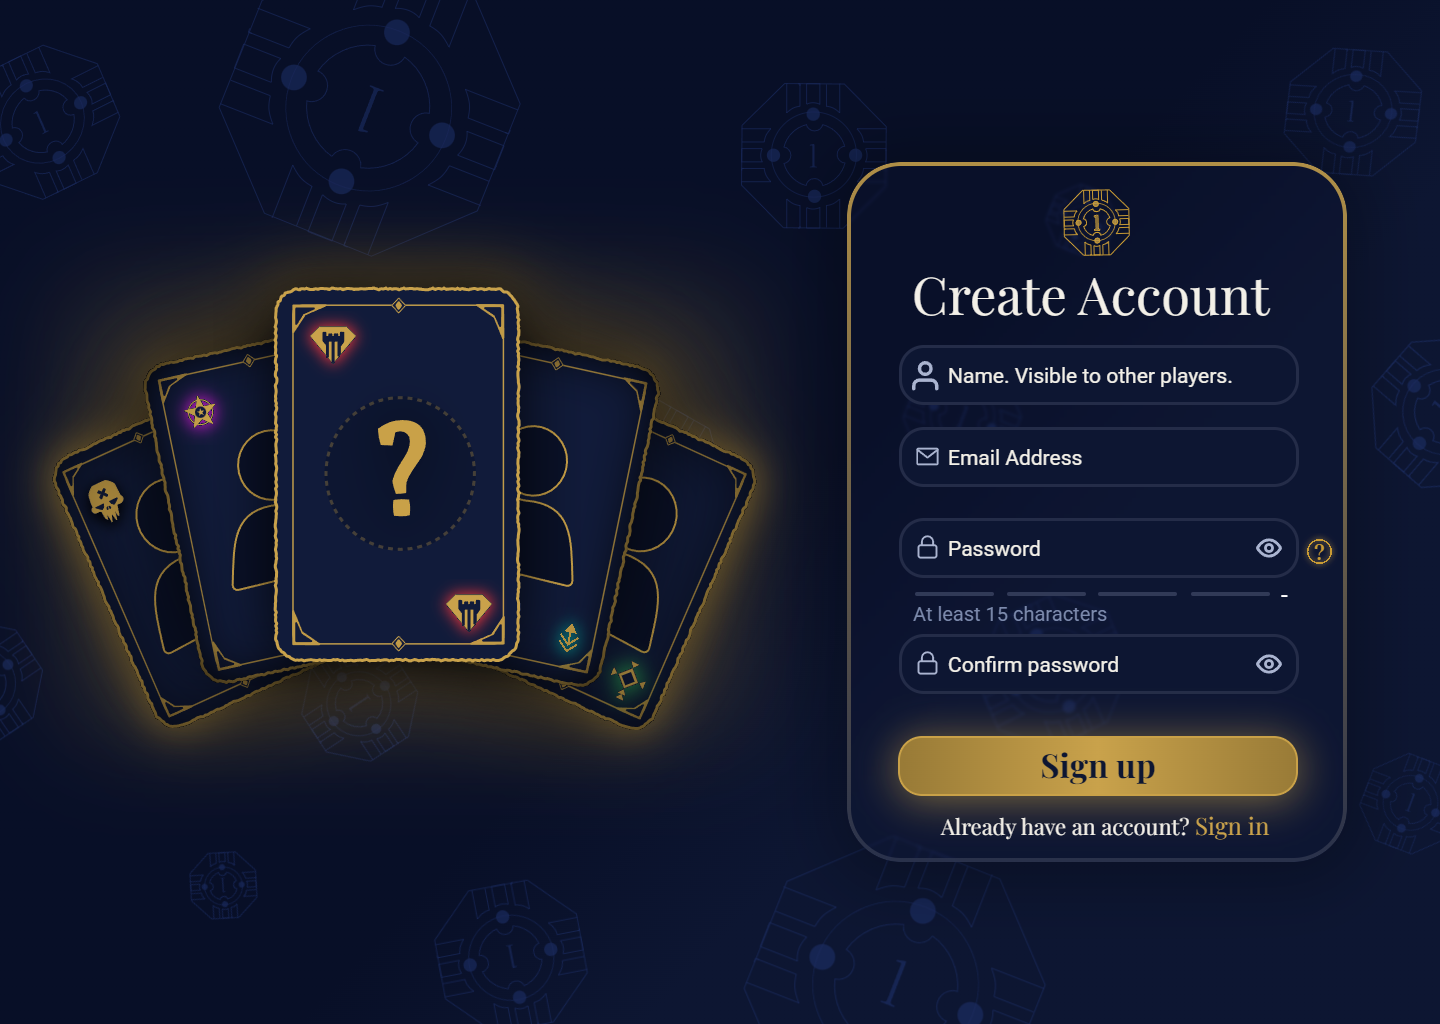
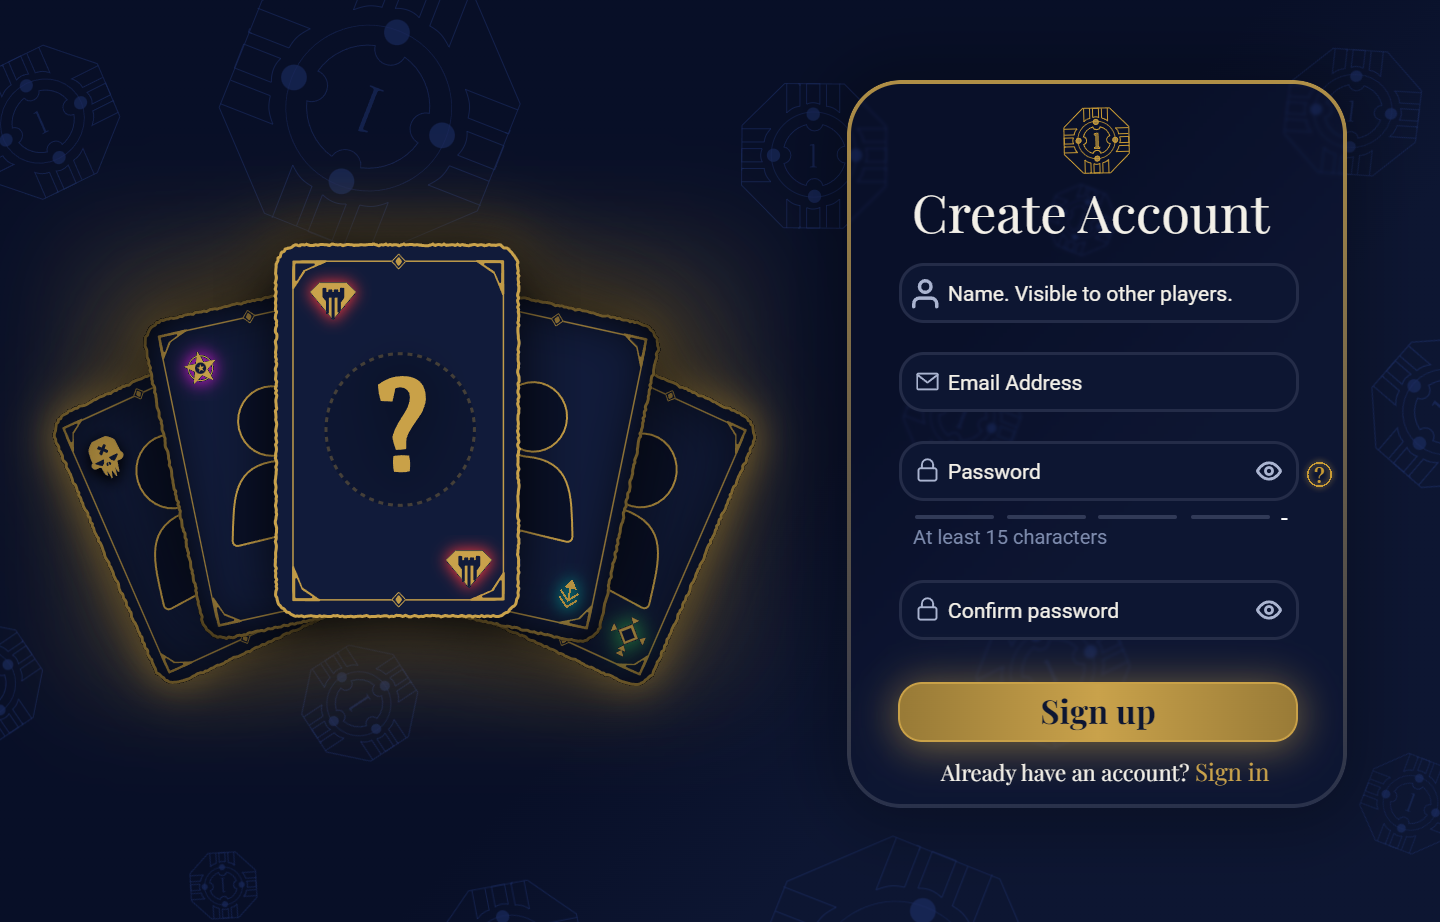
Give the register screen the login's size and spacing
Both screens now use the login's 1440 x 922 scene and one scale, so the
coin background and the cards keep the same size. The register fields
use the login's spacing: 29 px between boxes and about 30 px after a
warning or the hint. The password warning takes the hint's row.

diff --git a/frontend/src/styles/register.css b/frontend/src/styles/register.css
@@ -1,36 +1,36 @@
-/* Register positions in the 1440 x 1024 Figma frame "Desktop - Register default" (233:1402). Shared looks are in auth.css. */
-.register-scene { height: 1024px; }
-.register-scene .card-artwork { left: -35px; top: 184px; }
+/* Register positions from the 1440 x 1024 Figma frame "Desktop - Register default" (233:1402), placed in the login's
+   1440 x 922 scene so both screens share one scale. The cards sit at the login's card height, and the panel starts at
+   y 80 so it still fits with all warnings. The field spacing follows the login: 29 px between boxes, and about 30 px
+   from a warning or the hint to the next box. Other sizes follow Figma. Shared looks are in auth.css. */
+.register-scene .card-artwork { left: -35px; top: 140px; }
 .register-panel {
-  /* Each warning adds 32 px and moves everything below it, as on the login screen. */
+  /* Each warning adds 32 px and moves everything below it, as on the login screen. The password warning uses
+     the hint's row instead, so it adds no space. */
   --name-warning-space: 0px;
   --email-warning-space: 0px;
-  --password-warning-space: 0px;
   --confirm-warning-space: 0px;
   --password-shift: calc(var(--name-warning-space) + var(--email-warning-space));
-  --confirm-shift: calc(var(--password-shift) + var(--password-warning-space));
-  --warning-space: calc(var(--confirm-shift) + var(--confirm-warning-space));
+  --warning-space: calc(var(--password-shift) + var(--confirm-warning-space));
   --level-weak: #ff383c;
   --level-fair: #e0b652;
   --level-good: #34c759;
   --level-strong: #b388ff;
   left: 847px;
-  top: 162px;
-  height: calc(700px + var(--warning-space));
+  top: 80px;
+  height: calc(728px + var(--warning-space));
 }
 .register-panel.has-name-warning { --name-warning-space: 32px; }
 .register-panel.has-email-warning { --email-warning-space: 32px; }
-.register-panel.has-password-warning { --password-warning-space: 32px; }
 .register-panel.has-confirm-warning { --confirm-warning-space: 32px; }
 .register-panel .coup-emblem { left: 200px; top: 11px; width: 92px; height: 92px; }
 .register-panel h1 { left: 61px; top: 93px; }
 .register-panel .credential-field { left: 48px; }
 .register-panel .name-field { top: 179px; }
-.register-panel .email-field { top: calc(261px + var(--name-warning-space)); }
-.register-panel .password-field { top: calc(352px + var(--password-shift)); }
-.register-panel .confirm-field { top: calc(468px + var(--confirm-shift)); }
+.register-panel .email-field { top: calc(268px + var(--name-warning-space)); }
+.register-panel .password-field { top: calc(357px + var(--password-shift)); }
+.register-panel .confirm-field { top: calc(496px + var(--password-shift)); }
 .register-panel .name-field .field-icon { left: 10.25px; top: 13.25px; width: 26.5px; height: 29.5px; }
-/* The password warning sits 8 px below the strength bars, in place of the hint, and adds 32 px like the others. */
+/* The password warning sits 8 px below the strength bars, in place of the hint. */
 .register-panel .password-field .field-warning { top: 83px; left: 11px; }
 
 /* Strength levels color the password border, the bars, and the label. */
@@ -40,7 +40,7 @@
 .register-panel .level-strong .password-field { border-color: var(--level-strong); }
 /* A warning wins over the strength color, so every warned field looks the same, as on the login. */
 .register-panel .password-strength .password-field.has-warning { border-color: var(--color-coup-gold); }
-.password-meter { position: absolute; left: 64px; top: calc(426px + var(--password-shift)); width: 355px; height: 4px; }
+.password-meter { position: absolute; left: 64px; top: calc(431px + var(--password-shift)); width: 355px; height: 4px; }
 .meter-bar { position: absolute; top: 0; width: 79px; height: 4px; border-radius: 2px; background: #313a57; }
 .meter-bar:nth-child(2) { left: 92px; }
 .meter-bar:nth-child(3) { left: 183px; }
@@ -52,7 +52,7 @@
 .password-level {
   position: absolute;
   left: 430px;
-  top: calc(414px + var(--password-shift));
+  top: calc(419px + var(--password-shift));
   margin: 0;
   color: #fff;
   font: 24px/normal var(--font-body);
@@ -66,7 +66,7 @@
 .password-hint {
   position: absolute;
   left: 62px;
-  top: calc(436px + var(--password-shift));
+  top: calc(441px + var(--password-shift));
   margin: 0;
   color: #7d8bad;
   font: 20px/normal var(--font-body);
@@ -76,7 +76,7 @@
 .password-help {
   position: absolute;
   left: 456px;
-  top: calc(373px + var(--password-shift));
+  top: calc(378px + var(--password-shift));
   width: 25px;
   height: 25px;
   padding: 0;
@@ -93,7 +93,7 @@
   position: absolute;
   z-index: 2;
   left: 151px;
-  top: calc(363px + var(--password-shift));
+  top: calc(368px + var(--password-shift));
   width: 330px;
   padding: 12px 16px;
   border: 1.5px solid var(--color-coup-gold);
@@ -112,11 +112,11 @@
 .password-tips li::marker { color: var(--color-coup-gold); }
 .password-tips.open { opacity: 1; visibility: visible; }
 
-.register-panel .auth-button { left: 47px; top: calc(569px + var(--warning-space)); }
+.register-panel .auth-button { left: 47px; top: calc(597px + var(--warning-space)); }
 .signin-prompt {
   position: absolute;
   left: 90px;
-  top: calc(643px + var(--warning-space));
+  top: calc(671px + var(--warning-space));
   margin: 0;
   color: var(--color-coup-cream);
   font-size: 22px;

diff --git a/frontend/src/components/DesktopScene.tsx b/frontend/src/components/DesktopScene.tsx
@@ -1,29 +1,30 @@
 import { useEffect, useState } from "react";
 import type { ReactNode } from "react";
 
-// A Figma frame (1440 px wide) that scales as one piece to fit the window, with a 1024 px minimum width.
+// The login's 1440 x 922 Figma frame, which scales as one piece to fit the window, with a 1024 px minimum width.
+// Every screen uses this frame, so the background and cards keep their size when the player switches screens.
 const FRAME_WIDTH = 1440;
+const FRAME_HEIGHT = 922;
 const MIN_WIDTH = 1024;
 
-function sceneScale(frameHeight: number) {
-  return Math.min(Math.max(window.innerWidth, MIN_WIDTH) / FRAME_WIDTH, window.innerHeight / frameHeight);
+function sceneScale() {
+  return Math.min(Math.max(window.innerWidth, MIN_WIDTH) / FRAME_WIDTH, window.innerHeight / FRAME_HEIGHT);
 }
 
 type DesktopSceneProps = {
-  frameHeight: number;
   label: string;
   sceneClass: string;
   children: ReactNode;
 };
 
-export function DesktopScene({ frameHeight, label, sceneClass, children }: DesktopSceneProps) {
-  const [scale, setScale] = useState(() => sceneScale(frameHeight));
+export function DesktopScene({ label, sceneClass, children }: DesktopSceneProps) {
+  const [scale, setScale] = useState(sceneScale);
 
   useEffect(() => {
-    const resize = () => setScale(sceneScale(frameHeight));
+    const resize = () => setScale(sceneScale());
     window.addEventListener("resize", resize);
     return () => window.removeEventListener("resize", resize);
-  }, [frameHeight]);
+  }, []);
 
   return (
     <main className="auth-screen min-h-dvh" aria-label={label}>

diff --git a/frontend/src/pages/RegisterPage.tsx b/frontend/src/pages/RegisterPage.tsx
@@ -68,12 +68,13 @@ export function RegisterPage() {
     ? checkPassword(values.password, { username: values.name, email: values.email }, engine).level
     : undefined;
   const showHint = !warnings.password && [...values.password.normalize("NFC")].length < passwordPolicy.minLength;
-  const panelClass = ["auth-panel register-panel", warnings.name && "has-name-warning", warnings.email && "has-email-warning", warnings.password && "has-password-warning", warnings.confirm && "has-confirm-warning"]
+  // The password warning uses the hint's row, so only these three warnings add space to the panel.
+  const panelClass = ["auth-panel register-panel", warnings.name && "has-name-warning", warnings.email && "has-email-warning", warnings.confirm && "has-confirm-warning"]
     .filter(Boolean)
     .join(" ");
 
   return (
-    <DesktopScene frameHeight={1024} label="Coup create account" sceneClass="register-scene">
+    <DesktopScene label="Coup create account" sceneClass="register-scene">
       <CoinBackground />
       <CardArtwork />
       <section className={panelClass} aria-labelledby="register-heading">

diff --git a/frontend/tests/RegisterPage.test.tsx b/frontend/tests/RegisterPage.test.tsx
@@ -60,8 +60,8 @@ describe("register screen", () => {
       "Passwords don't match.",
     ]));
     expect(screen.queryByText("At least 15 characters")).toBeNull();
-    // Like the login, every warning adds room, including the password warning.
-    expect(document.querySelector(".register-panel")!.className).toBe("auth-panel register-panel has-name-warning has-email-warning has-password-warning has-confirm-warning");
+    // Like the login, warnings add room. The password warning uses the hint's row, so it adds none.
+    expect(document.querySelector(".register-panel")!.className).toBe("auth-panel register-panel has-name-warning has-email-warning has-confirm-warning");
   });
 
   it("accepts a valid form without a request and keeps the values", async () => {

diff --git a/frontend/src/styles/auth.css b/frontend/src/styles/auth.css
@@ -1,4 +1,4 @@
-/* Shared by the login and register screens. Each screen file sets its scene height and the positions. */
+/* Shared by the login and register screens. Both use the 1440 x 922 scene; each screen file sets the positions. */
 .auth-screen {
   position: relative;
   min-width: 1024px;
@@ -11,6 +11,7 @@
   top: 50%;
   left: 50%;
   width: 1440px;
+  height: 922px;
   transform-origin: center;
 }
 .scene-background { position: absolute; inset: 0; width: 1440px; height: 922px; overflow: visible; pointer-events: none; }

diff --git a/frontend/src/pages/LoginPage.tsx b/frontend/src/pages/LoginPage.tsx
@@ -51,7 +51,7 @@ export function LoginPage() {
     .join(" ");
 
   return (
-    <DesktopScene frameHeight={922} label="Coup sign in" sceneClass="login-scene">
+    <DesktopScene label="Coup sign in" sceneClass="login-scene">
       <CoinBackground />
       <CardArtwork />
       <section className={panelClass} aria-labelledby="login-heading">

diff --git a/frontend/src/styles/login.css b/frontend/src/styles/login.css
@@ -1,5 +1,4 @@
 /* Login positions in the 1440 x 922 Figma frame. Shared looks are in auth.css. */
-.login-scene { height: 922px; }
 .login-scene .card-artwork { left: 591px; top: 140px; }
 .login-panel {
   --email-warning-space: 0px;

diff --git a/docs/register-design.md b/docs/register-design.md
@@ -16,13 +16,15 @@ Source: [Figma design](https://www.figma.com/design/gSwvUJYZiyFV5LTaTRcQvW/ui-lo
 - Sign up button: x 898, y 735, 400 x 60. "Already have an account? Sign in": Playfair Display 22 px with a 24 px #C9A24B link, at x 941, y 809.
 - Cards: the login's five-card artwork at x 47, y 289, with the same hover motion.
 
-Shared looks live in `frontend/src/styles/auth.css`; register positions live in `register.css`.
+These are the Figma frame values. On screen, the panel, cards, and fields move as explained in "Same size as the login" and "Equal field spacing" below. Shared looks live in `frontend/src/styles/auth.css`; register positions live in `register.css`.
 
 ## Changes from Figma, agreed with the user
 
+- **Same size as the login.** The Figma register frame is 1024 px tall, but the login frame is 922 px. When each screen scaled its own frame to the window, the register coins and cards were about 10% smaller, and the coins did not reach the bottom. Both screens now use the login's 1440 x 922 scene and the same scale, so the background and cards look the same when the player switches screens. The cards sit at the login's card height (y 245 instead of 289). The panel starts at y 80 instead of 162, so it still fits with all warnings (18 px above the bottom edge).
+- **Equal field spacing, like the login.** In Figma the gaps between the boxes are 22 px and 31 px, and the hint sits 8 px above Confirm password. The screen uses the login's spacing everywhere: 29 px between boxes, and about 30 px from a warning or the hint to the next box (28 px from a warning, 31 px from the hint, the same as the login). So, compared with Figma, Email moves down 7 px, Password 5 px, and Confirm password 28 px, and the panel is 728 px tall instead of 700. The gap above the Sign up button stays 41 px, as in Figma.
 - **15 characters, not 12.** The hint says "At least 15 characters" to match the [password rules](../integration/contracts/password-policy.md).
 - **Four strength levels.** Figma shows Weak (1 red bar), Fair (2 yellow bars), and Strong (4 green bars). The screen adds Good (3 bars) in the old green and shows Strong (4 bars) in light purple #B388FF, the "legendary" color. The password border takes the level color while the player types.
-- **Yellow warnings with login spacing.** Figma uses red messages that sit in the gaps. The screen uses the login's yellow warning style instead, and each warning pushes the fields below it down by 32 px, so the two screens behave the same. A password warning sits 8 px below the strength bars, in place of the hint, and a warned password field gets the yellow border like the other fields.
+- **Yellow warnings with login spacing.** Figma uses red messages that sit in the gaps. The screen uses the login's yellow warning style instead, and the Name, Email, and Confirm warnings each push the fields below them down by 32 px, so the two screens behave the same. The password warning takes the hint's row, 8 px below the strength bars, so it adds no space and the gaps stay equal. A warned password field gets the yellow border like the other fields.
 - **Login coins and cards.** The new Figma frame has a different coin background. The user asked to reuse the login's coins and cards.
 - **Password tips.** Figma has the "?" icon but no tips box. Hovering or focusing it shows short tips in a small gold-bordered box: the length, the four character types (capital, small letter, number, symbol), and no common or personal password. The box stays open while the pointer is on the button or the box, and Escape closes it.
 - **Small consistency fixes.** The Name hint gets a space ("Name. Visible to other players."), input text is centered like the login, and the Sign up button uses the login's button style, including the Figma pressed state.

diff --git a/docs/login-design.md b/docs/login-design.md
@@ -27,7 +27,7 @@ The cards (instance 120:4380, 715 x 447 at x 673, y 245), coins, and emblem are 
 - The user asked to scatter the three coins on the right side. They were almost in one column, with the same angle and size. Now they form a zig-zag, each with its own angle and size, and keep their color. The top coin is turned 30° at 90% size, the middle coin −15° at 125%, and the bottom coin 55° at 80%. Each coin turns and resizes around its own center. The right side mirrors the left side: the middle-left coin goes 81.75 px past the left edge, so the middle-right coin goes 81.75 px past the right edge. Visible edges, including the line: top x 1283.75 to 1422.25, middle x 1371.25 to 1521.75, bottom x 1359.25 to 1461.
 - The user also asked that three coins on the left side each have a different angle: the coin between the panel and the cards, the coin behind "Sign in", and the small coin at the bottom left. They looked almost the same, because the coin design repeats every 90°. The coin behind "Sign in" is now turned 35° more and the bottom-left coin 25° less, so the three sit about 30° apart (29°, 56°, and 86°). Each one turns around its own center, so its place and size stay the same.
 - The card glow uses a soft SVG shadow, because Figma's outer filter made rectangle artifacts. The filter areas leave room so the blur is never cut off.
-- The 1440 x 922 scene scales as one piece to fit the window, with a 1024 px minimum width. The background fills wide screens. Coins may be cut by the window edge, as in Figma. There is no mobile layout.
+- The 1440 x 922 scene scales as one piece to fit the window, with a 1024 px minimum width. The register screen uses the same scene and scale, so the background and cards keep their size between the two screens. The background fills wide screens. Coins may be cut by the window edge, as in Figma. There is no mobile layout.
 
 ## Interactions
 
